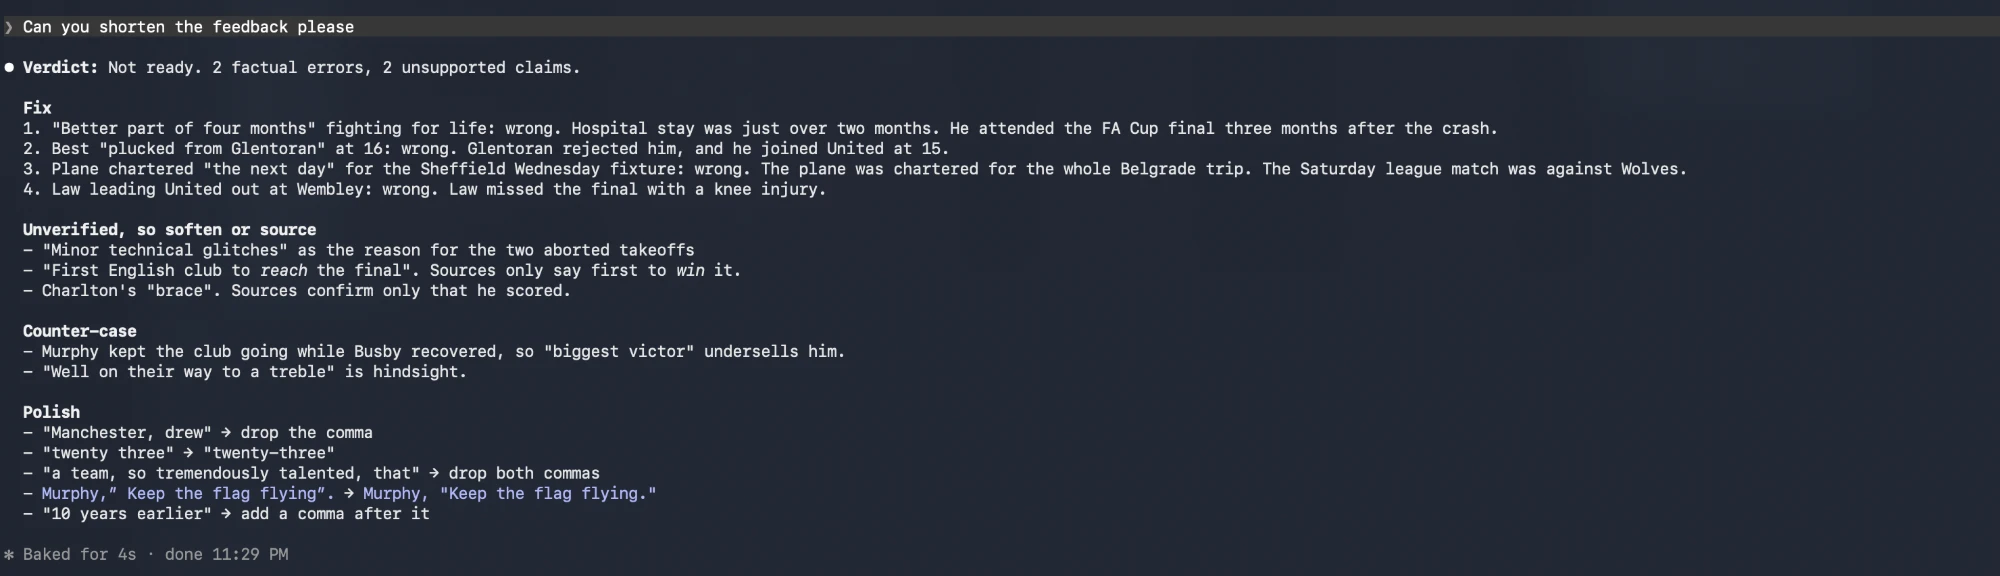
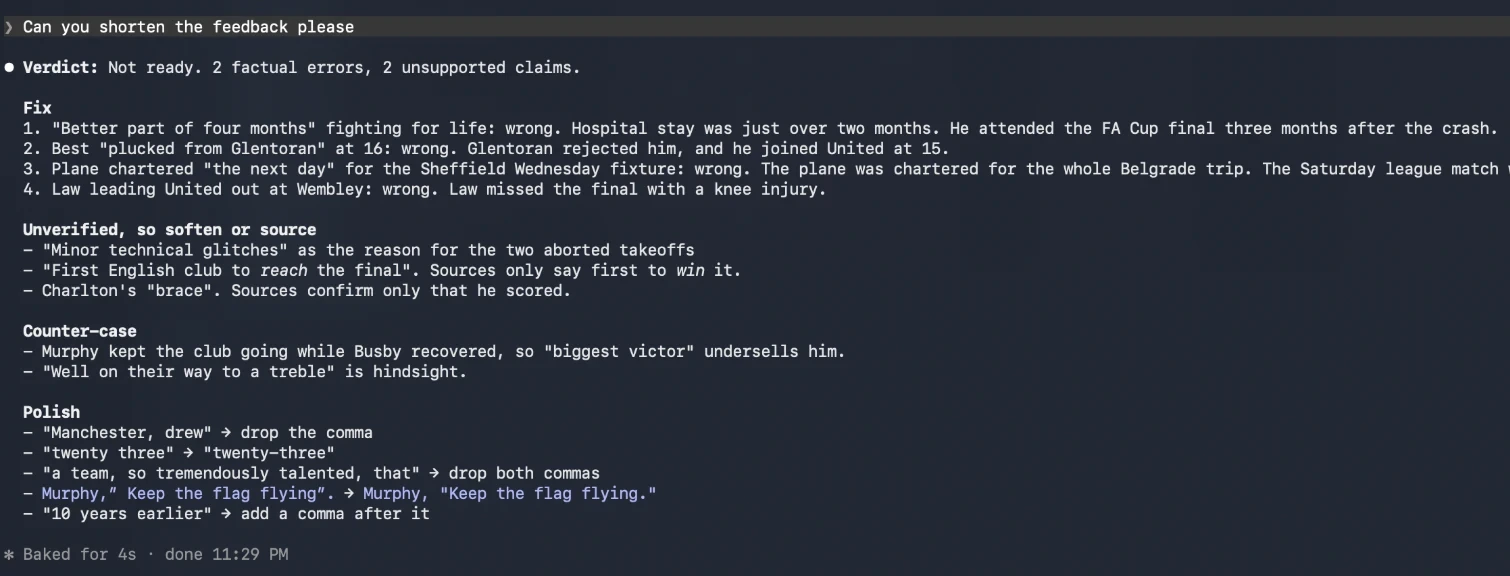
Crop screenshots to key regions for legibility

diff --git a/src/content/projects/fpl-context-mcp.md b/src/content/projects/fpl-context-mcp.md
@@ -6,7 +6,7 @@ tags: [Python, MCP, PostgreSQL, Open source]
 cover: ../../assets/projects/fpl-context-mcp/fixtures.webp
 coverAlt: Claude Code showing GW8 fixtures with difficulty ratings, fetched through fpl-context-mcp
 gallery:
-  - { src: ../../assets/projects/fpl-context-mcp/picks.webp, alt: Claude Code suggesting three forwards using fpl-context-mcp, caption: "Asking for three forwards: the agent calls the MCP server three times and compares expected points, fixtures, form and ownership." }
+  - { src: ../../assets/projects/fpl-context-mcp/picks.webp, alt: Claude Code suggesting three forwards using fpl-context-mcp, caption: "Asked for three forwards, the agent queried the MCP server and ranked players on expected points, fixtures, form and ownership." }
 links:
   - { label: Source, url: "https://github.com/sbanthia92/fpl-context-mcp" }
 ---

diff --git a/src/content/projects/review-desk.md b/src/content/projects/review-desk.md
@@ -4,7 +4,6 @@ summary: Evidence-backed, multi-agent document reviewer exposed as a single MCP 
 order: 3
 tags: [Python, Multi-agent, MCP, Web search]
 cover: ../../assets/projects/review-desk/review.webp
-coverFit: contain
 coverAlt: Review Desk feedback in Claude Code listing factual errors, unverified claims, counter-case and copy edits
 links:
   - { label: Source, url: "https://github.com/sbanthia92/review-desk" }
